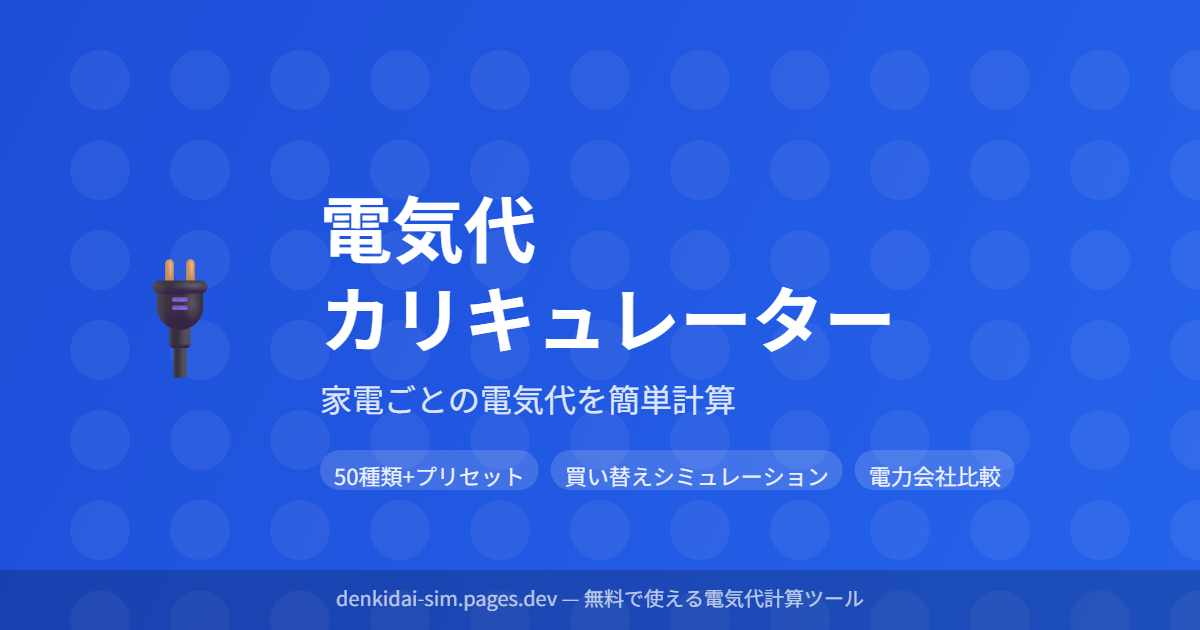
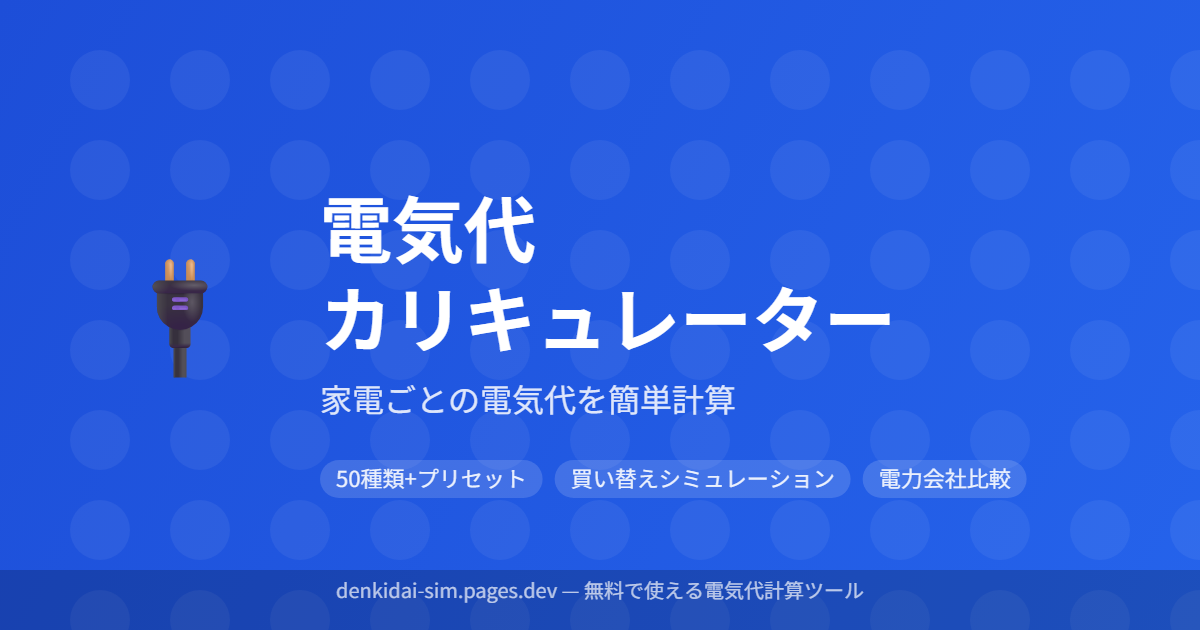
Fix OGP image pill text alignment

Changed region(s): [[0.2467, 0.6937, 0.8633, 0.8143], [0.2775, 0.9048, 0.74, 0.9651]]

diff --git a/scripts/generate-ogp.html b/scripts/generate-ogp.html
@@ -49,17 +49,21 @@ ctx.fillText('家電ごとの電気代を簡単計算', 320, 400);
 // Feature pills
 const pills = ['50種類+プリセット', '買い替えシミュレーション', '電力会社比較'];
 ctx.font = '22px "Hiragino Sans", "Noto Sans JP", sans-serif';
+ctx.textBaseline = 'middle';
+const pillY = 460;
+const pillH = 38;
 let pillX = 320;
 pills.forEach(text => {
-  const w = ctx.measureText(text).width + 28;
+  const w = ctx.measureText(text).width + 32;
   ctx.fillStyle = 'rgba(255,255,255,0.15)';
   ctx.beginPath();
-  ctx.roundRect(pillX, 450, w, 40, 20);
+  ctx.roundRect(pillX, pillY, w, pillH, pillH / 2);
   ctx.fill();
   ctx.fillStyle = 'rgba(255,255,255,0.9)';
-  ctx.fillText(text, pillX + 14, 477);
+  ctx.fillText(text, pillX + 16, pillY + pillH / 2);
   pillX += w + 12;
 });
+ctx.textBaseline = 'alphabetic';
 
 // Bottom bar
 ctx.fillStyle = 'rgba(0,0,0,0.2)';
